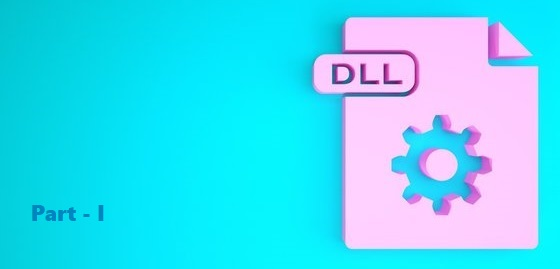
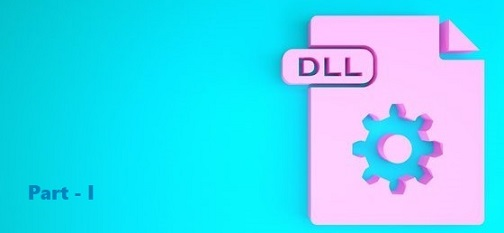
Added Dll exploits part-2

diff --git a/pages/dll-exploits-2/second.html b/pages/dll-exploits-2/second.html
@@ -6,25 +6,25 @@
 -->
 <html>
 	<head>
-		<title>Dll Exploits - I</title>
+		<title>Dll Exploits - II</title>
 		<meta charset="utf-8" />
 		<meta name="viewport" content="width=device-width, initial-scale=1, user-scalable=no" />
 		<link rel="stylesheet" href="../../assets/css/main.css" />
         <link rel="stylesheet" href="../../assets/css/app.css"/>
         <style>
             .m-hero__picture {
-              background-image: url(../../images/dll-exploits-1/dll_exploits_1_bg.jpg);
+              background-image: url(../../images/dll-exploits-2/dll_exploits_2_bg.jpg);
             }
           
             @media(max-width: 1000px) {
               .m-hero__picture {
-                background-image: url(../../images/dll-exploits-1/dll_exploits_1_bg.jpg);
+                background-image: url(../../images/dll-exploits-2/dll_exploits_2_bg.jpg);
               }
             }
           
             @media(max-width: 600px) {
               .m-hero__picture {
-                background-image: url(../../images/dll-exploits-1/dll_exploits_1_bg.jpg);
+                background-image: url(../../images/dll-exploits-2/dll_exploits_2_bg.jpg);
               }
             }
           </style>
@@ -119,11 +119,11 @@
 							<article class="post">
 								<header>
 									<div class="title">
-										<h2><a href="#">DLL Exploits Part-I : StrongName Signing and Authenticode Signing</a></h2>
+										<h2><a href="#">DLL Exploits Part-II : DLL modification and StrongName signing bypass</a></h2>
 										<p></p>
 									</div>
 									<div class="meta">
-										<time class="published" datetime="2015-11-01">February 18, 2022</time>
+										<time class="published" datetime="2015-11-01">March 20, 2022</time>
 										<a href="#" class="author"><span class="name">Violet Devsec</span><img src="../../images/avatar.jpg" alt="" /></a>
 									</div>
 								</header>
@@ -133,65 +133,71 @@
                                 <!--Post content-->
                                         <div class="l-post-content   js-progress-content">
                                             <div class="pos-relative js-post-content">
-                                                <p>Windows DLLs can be signed using two mechanisms; StrongName Signing and Authenticode Signing. In this part we will see how we can add StrongName and Authenticode Signing to Windows executables and their pros and cons.</p>
-												<p>Here we are creating a sample calculator application with a WPF UI and a DLL which does the basic mathematical operations of calculator. This application also has a DLL named Security, which is added with capability for verifying StrongName Signing and Authenticode Signing and singning certificate.</p>
-												<p>Code for the same can be found here : https://github.com/violet-devsec/wpf-app-dll-code-sign</p>
-                                                <ol>
+                                                <p></p>
+                                                <ol start="10">
                                                     <li>
-                                                        <strong>Sample app structure</strong>
-														<p>Sample app's project structure in Visual Studio.</p>
-                                                        <img src="../../images/dll-exploits-1/dll_exploits_1_1.png" alt="" />
+                                                        <strong>A little deeper investigation</strong>
+														<p>It is observed that when we strong name the DLLs in Visual Studio, the reference to these DLLs in the Entry EXE adds a public key token value with it. This is making the exception at Entry app when the DLLs are strong named out of Visual Studio. So, we need to modify the Entry App exe also to add these public key token value for new Strong name key.</p>
+														<img src="../../images/dll-exploits-2/dll_exploits_2_18.png" alt="" />
+														<p>(Fig: Entry App exe's IL code showing reference to backend DLLs. Left side: Strong Named in VS, Right side: Strong named out of VS)</p>
                                                     </li>
                                                     <li>
-                                                        <strong>Signing validation at Entry App initialization.</strong>
-														<p>Entry app calls the backend DLL only after the signings are valid.</p>
-                                                        <img src="../../images/dll-exploits-1/dll_exploits_1_2.png" alt="" />
+                                                        <strong>Decompiling the Entry app EXE.</strong>
+														<img src="../../images/dll-exploits-2/dll_exploits_2_19.png" alt="" />
                                                     </li>
                                                     <li>
-                                                        <strong>Build the application</strong>
-														<p>Build the application in Release mode. We can see the Exe an Dll files in the build output folder.</p>
-                                                        <img src="../../images/dll-exploits-1/dll_exploits_1_3.png" alt="" />
+                                                        <strong>Modify publickeytoken value in assembly reference.</strong>
+														<p>Modify the existing publickeytoken value with the public key token for new strong name key.</p>
+                                                        <img src="../../images/dll-exploits-2/dll_exploits_2_20.png" alt="" />
+														<img src="../../images/dll-exploits-2/dll_exploits_2_21.png" alt="" />
                                                     </li>
                                                     <li>
-                                                        <strong>Use IL Disassembler</strong>
-														<p>Use ildasm to see the Dll file contents.</p>
-                                                        <img src="../../images/dll-exploits-1/dll_exploits_1_4.png" alt="" />
-														<img src="../../images/dll-exploits-1/dll_exploits_1_5.png" alt="" />
+                                                        <strong>Reassemble the IL code back to Exe</strong>
+														<p>Recompile the modified IL code to new exe and replace old exe with the new exe in the application folder.</p>
+                                                        <img src="../../images/dll-exploits-2/dll_exploits_2_22.png" alt="" />
                                                     </li>
                                                     <li>
-                                                        <strong>View the manifest data</strong>
-														<p>Open the Manifest data from ILDASM UI. Now manifest does not contain any signing details.</p>
-                                                        <img src="../../images/dll-exploits-1/dll_exploits_1_6.png" alt="" />
+                                                        <strong>Application started!</strong>
+														<p>Now, application booted up. But, App got halted due to the expected Authenticode signature verification fail.</p>
+														<p>Wait a minute! This does not satisfy our initial target. </p>
+														<p>We didn't target to modify the Entry Exe app in the attack scenario. Attacker can change the validation logic if he has privilege to modify the Entry Exe. So I have decided to check a bit about this behaviour. I have come to know that this is a feature in .Net Framework called strict loading. .Net CLR will not bind references if there is any mismatch in the StrongName details added during build.</p>
+                                                        <img src="../../images/dll-exploits-2/dll_exploits_2_23.png" alt="" />
                                                     </li>
 													<li>
-                                                        <strong>Strong name key creation</strong>
-														<p>Use SN command to create key pair for StrongName signing</p>
-                                                        <img src="../../images/dll-exploits-1/dll_exploits_1_8.png" alt="" />
-														<img src="../../images/dll-exploits-1/dll_exploits_1_9.png" alt="" />
+                                                        <strong>Changing the UI application to .Net Core</strong>
+														<p>So, I have quickly created a Console UI in .Net Core. And, added reference to the MathLib Dll for performing the calculator operations.</p>
+                                                        <img src="../../images/dll-exploits-2/dll_exploits_2_24.png" alt="" />
                                                     </li>
 													<li>
-                                                        <strong>Get public key from key pair for delay signing</strong>
-														<p>Export the public key from Strong name key so that we can supply the public to Visual Studio for Delay Signing the executables.</p>
-                                                        <img src="../../images/dll-exploits-1/dll_exploits_1_10.png" alt="" />
-														<img src="../../images/dll-exploits-1/dll_exploits_1_11.png" alt="" />
+                                                        <strong>Moved the new UI exe to the DLL modification workspace and started.</strong>
+														<p>There is no problem now as it faced in the case of .Net Framework UI. StrongName validation was successful and the UI app throws error for Authenticode signature failure.</p>
+                                                        <img src="../../images/dll-exploits-2/dll_exploits_2_26.png" alt="" />
                                                     </li>
 													<li>
-                                                        <strong>Set StrongName signing in Visual Studio</strong>
-														<p>Enable delay signing for all 3 solutions and build the applications once again.</p>
-                                                        <img src="../../images/dll-exploits-1/dll_exploits_1_12.png" alt="" />
-														<img src="../../images/dll-exploits-1/dll_exploits_1_13.png" alt="" />
+                                                        <strong>Signed with attacker's Authenticode cert!</strong>
+														<p></p>
+                                                        <img src="../../images/dll-exploits-2/dll_exploits_2_27.png" alt="" />
                                                     </li>
 													<li>
-                                                        <strong>Run the application</strong>
-														<p>Run(Double-click) the Exe file. The application does not start as it fail in signature check. </p>
-														<p>Note: This error message shows StrongName and Authenticode signing are not present.</p>
-                                                        <img src="../../images/dll-exploits-1/dll_exploits_1_14.png" alt="" />
+                                                        <strong>Run the application again!</strong>
+														<p>Again we get the "Signature verification failed" error. We can now the reason of exception is because of "Untrusted Certificate", if we debug the application with the modified DLL. This means attacker's certificate is not in the Trusted root store of the production machine. So attacker cannot achieve bypassing Authenticode signing. </p>
+                                                        <img src="../../images/dll-exploits-2/dll_exploits_2_28.png" alt="" />
+														<img src="../../images/dll-exploits-2/dll_exploits_2_29.png" alt="" />
+                                                    </li>
+													<li>
+                                                        <strong>A final confirmation!</strong>
+														<p>To just start the App and show the effect of modified DLL, we can sign the DLL with old original certificate. Application started-up and given the modified Dll output.</p>
+														<p>This step proves that we can strong name the DLL with a different strong name key. But, Authenticode signing will fail if it is not signed with a certificate which is not in trusted root store.</p>
+														<img src="../../images/dll-exploits-2/dll_exploits_2_30.png" alt="" />
+														<img src="../../images/dll-exploits-2/dll_exploits_2_31.png" alt="" />
+														<p>(Note: Alternatively, we can add the Fake certificate to Trusted root store to start the application. But, it is DANGEROUS to add random certificates to Trusted root store!!)</p>
                                                     </li>
                                                 </ol>
                                                 <!-- Pagination -->
-                                                <ul class="actions pagination">
-                                                    <li><a href="" class="disabled button large previous">Previous Page</a></li>
-                                                    <li><a href="second.html" class="button large next" style="position: absolute; right: 0;">Next Page</a></li>
+                                                <ul class="actions pagination">  
+                                                    <li><a href="index.html" class="button large previous">Previous Page</a></li>
+                                                    <li><a href="second.html" class="disabled button large next" style="position: absolute; right: 0;">Next Page</a></li>
+                                                
                                                 </ul>
                                             </div>
                                             

diff --git a/pages/dll-exploits-2/index.html b/pages/dll-exploits-2/index.html
@@ -6,25 +6,25 @@
 -->
 <html>
 	<head>
-		<title>Dll Exploits - I</title>
+		<title>Dll Exploits - II</title>
 		<meta charset="utf-8" />
 		<meta name="viewport" content="width=device-width, initial-scale=1, user-scalable=no" />
 		<link rel="stylesheet" href="../../assets/css/main.css" />
         <link rel="stylesheet" href="../../assets/css/app.css"/>
         <style>
             .m-hero__picture {
-              background-image: url(../../images/dll-exploits-1/dll_exploits_1_bg.jpg);
+              background-image: url(../../images/dll-exploits-2/dll_exploits_2_bg.jpg);
             }
           
             @media(max-width: 1000px) {
               .m-hero__picture {
-                background-image: url(../../images/dll-exploits-1/dll_exploits_1_bg.jpg);
+                background-image: url(../../images/dll-exploits-2/dll_exploits_2_bg.jpg);
               }
             }
           
             @media(max-width: 600px) {
               .m-hero__picture {
-                background-image: url(../../images/dll-exploits-1/dll_exploits_1_bg.jpg);
+                background-image: url(../../images/dll-exploits-2/dll_exploits_2_bg.jpg);
               }
             }
           </style>
@@ -119,11 +119,11 @@
 							<article class="post">
 								<header>
 									<div class="title">
-										<h2><a href="#">DLL Exploits Part-I : StrongName Signing and Authenticode Signing</a></h2>
+										<h2><a href="#">DLL Exploits Part-II : DLL modification and StrongName signing bypass</a></h2>
 										<p></p>
 									</div>
 									<div class="meta">
-										<time class="published" datetime="2015-11-01">February 18, 2022</time>
+										<time class="published" datetime="2015-11-01">March 20, 2022</time>
 										<a href="#" class="author"><span class="name">Violet Devsec</span><img src="../../images/avatar.jpg" alt="" /></a>
 									</div>
 								</header>
@@ -133,59 +133,64 @@
                                 <!--Post content-->
                                         <div class="l-post-content   js-progress-content">
                                             <div class="pos-relative js-post-content">
-                                                <p>Windows DLLs can be signed using two mechanisms; StrongName Signing and Authenticode Signing. In this part we will see how we can add StrongName and Authenticode Signing to Windows executables and their pros and cons.</p>
-												<p>Here we are creating a sample calculator application with a WPF UI and a DLL which does the basic mathematical operations of calculator. This application also has a DLL named Security, which is added with capability for verifying StrongName Signing and Authenticode Signing and singning certificate.</p>
+                                                <p>We have seen how to add StrongName & Authenticode sigining for Windows executables and validations of same in Part-1.</p>
+												<p>This part will cover modifying DLL and whether StrongName or Authenticode signing helps to ensure integrity(anti-tampering) and authenticity of software executable files. The scenario here can considered as a software supply chain where the Calculator DLL(CodeSignApp.MathLib.dll) library is obtained from a trusted third party and the Entry app need to validate the integrity and authenticity of the library before using it in the application.</p>
+												<p>Malicious agent can try to modify the DLL library and can sign it with his own StrongName/Authenticode signing keys and supply it to the production environment.</p>
 												<p>Code for the same can be found here : https://github.com/violet-devsec/wpf-app-dll-code-sign</p>
                                                 <ol>
                                                     <li>
-                                                        <strong>Sample app structure</strong>
-														<p>Sample app's project structure in Visual Studio.</p>
-                                                        <img src="../../images/dll-exploits-1/dll_exploits_1_1.png" alt="" />
+                                                        <strong>Create another strong name keypair.</strong>
+														<p>We consider it as attacker's StrongName key.</p>
+                                                        <img src="../../images/dll-exploits-2/dll_exploits_2_1.png" alt="" />
                                                     </li>
                                                     <li>
-                                                        <strong>Signing validation at Entry App initialization.</strong>
-														<p>Entry app calls the backend DLL only after the signings are valid.</p>
-                                                        <img src="../../images/dll-exploits-1/dll_exploits_1_2.png" alt="" />
+                                                        <strong>Create another Authenticode signing certificate.</strong>
+														<p>We consider it as attacker's Authenticode certificate.</p>
+                                                        <img src="../../images/dll-exploits-2/dll_exploits_2_2.png" alt="" />
+														<img src="../../images/dll-exploits-2/dll_exploits_2_3.png" alt="" />
                                                     </li>
                                                     <li>
-                                                        <strong>Build the application</strong>
-														<p>Build the application in Release mode. We can see the Exe an Dll files in the build output folder.</p>
-                                                        <img src="../../images/dll-exploits-1/dll_exploits_1_3.png" alt="" />
+                                                        <strong>Export the new certificate to machine folder.</strong>
+                                                        <img src="../../images/dll-exploits-2/dll_exploits_2_4.png" alt="" />
+														<img src="../../images/dll-exploits-2/dll_exploits_2_5.png" alt="" />
+														<img src="../../images/dll-exploits-2/dll_exploits_2_6.png" alt="" />
                                                     </li>
                                                     <li>
-                                                        <strong>Use IL Disassembler</strong>
-														<p>Use ildasm to see the Dll file contents.</p>
-                                                        <img src="../../images/dll-exploits-1/dll_exploits_1_4.png" alt="" />
-														<img src="../../images/dll-exploits-1/dll_exploits_1_5.png" alt="" />
+                                                        <strong>Move the Exe and Dll files to a new folder</strong>
+														<p>This is just to do our modification process on a copy of original executables.</p>
+                                                        <img src="../../images/dll-exploits-2/dll_exploits_2_7.png" alt="" />
                                                     </li>
                                                     <li>
-                                                        <strong>View the manifest data</strong>
-														<p>Open the Manifest data from ILDASM UI. Now manifest does not contain any signing details.</p>
-                                                        <img src="../../images/dll-exploits-1/dll_exploits_1_6.png" alt="" />
-                                                    </li>
-													<li>
-                                                        <strong>Strong name key creation</strong>
-														<p>Use SN command to create key pair for StrongName signing</p>
-                                                        <img src="../../images/dll-exploits-1/dll_exploits_1_8.png" alt="" />
-														<img src="../../images/dll-exploits-1/dll_exploits_1_9.png" alt="" />
-                                                    </li>
-													<li>
-                                                        <strong>Get public key from key pair for delay signing</strong>
-														<p>Export the public key from Strong name key so that we can supply the public to Visual Studio for Delay Signing the executables.</p>
-                                                        <img src="../../images/dll-exploits-1/dll_exploits_1_10.png" alt="" />
-														<img src="../../images/dll-exploits-1/dll_exploits_1_11.png" alt="" />
-                                                    </li>
-													<li>
-                                                        <strong>Set StrongName signing in Visual Studio</strong>
-														<p>Enable delay signing for all 3 solutions and build the applications once again.</p>
-                                                        <img src="../../images/dll-exploits-1/dll_exploits_1_12.png" alt="" />
-														<img src="../../images/dll-exploits-1/dll_exploits_1_13.png" alt="" />
-                                                    </li>
-													<li>
                                                         <strong>Run the application</strong>
-														<p>Run(Double-click) the Exe file. The application does not start as it fail in signature check. </p>
-														<p>Note: This error message shows StrongName and Authenticode signing are not present.</p>
-                                                        <img src="../../images/dll-exploits-1/dll_exploits_1_14.png" alt="" />
+														<p>Just to verify the normal execution of the application.</p>
+                                                        <img src="../../images/dll-exploits-2/dll_exploits_2_8.png" alt="" />
+                                                    </li>
+													<li>
+                                                        <strong>Disassemble the DLL</strong>
+														<p>Now we are going to modify the "CodeSignApp.MathLib.dll" file.</p>
+														<p></p>
+                                                        <img src="../../images/dll-exploits-2/dll_exploits_2_9.png" alt="" />
+														<img src="../../images/dll-exploits-2/dll_exploits_2_10.png" alt="" />
+                                                    </li>
+													<li>
+                                                        <strong>Edit the IL code</strong>
+														<p>Export the public key from Strong name key so that we can supply the public to Visual Studio for Delay Signing the executables.</p>
+                                                        <img src="../../images/dll-exploits-2/dll_exploits_2_11.png" alt="" />
+														<img src="../../images/dll-exploits-2/dll_exploits_2_12.png" alt="" />
+                                                    </li>
+													<li>
+                                                        <strong>Reassemble the IL code back to DLL</strong>
+														<p>Used VS Developer command prompt for running ILASM command. We are supplying the attacker's StrongName key to sign the modified DLL.</p>
+														<p>The StrongName public key has been replaced with the public key of new key(SgnKey2.snk) in the DLL manifest.</p>
+                                                        <img src="../../images/dll-exploits-2/dll_exploits_2_13.png" alt="" />
+														<img src="../../images/dll-exploits-2/dll_exploits_2_14.png" alt="" />
+														<img src="../../images/dll-exploits-2/dll_exploits_2_15.png" alt="" />
+                                                    </li>
+													<li>
+                                                        <strong>Application crashed!</strong>
+														<p>Application didn't even bootup. We can see below error in Windows Event log. Event log error details was not very helpful to identify the issue.</p>
+                                                        <img src="../../images/dll-exploits-2/dll_exploits_2_16.png" alt="" />
+														<img src="../../images/dll-exploits-2/dll_exploits_2_17.png" alt="" />
                                                     </li>
                                                 </ol>
                                                 <!-- Pagination -->

diff --git a/index.html b/index.html
@@ -97,7 +97,7 @@
 				<!-- Main -->
 					<div id="main">
 						
-						<!-- Post 
+						<!-- Post -->
 						<article class="post">
 							<header>
 								<div class="title">
@@ -122,7 +122,7 @@
 								</ul>
 							</footer>
 						</article>
-						-->
+						
 						<!-- Post -->
 						<article class="post">
 							<header>
